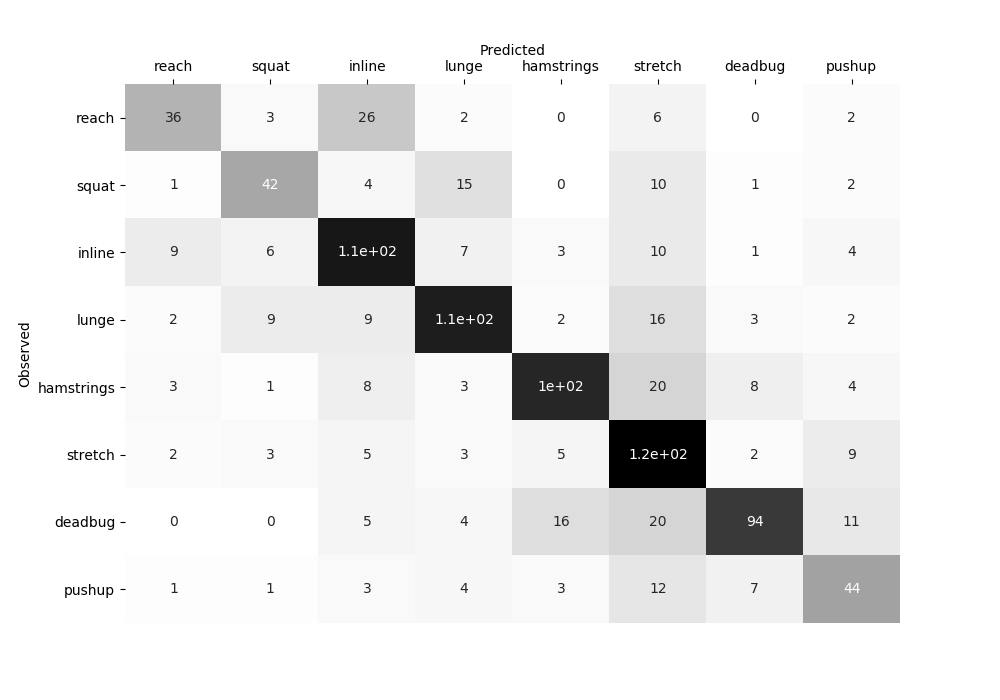
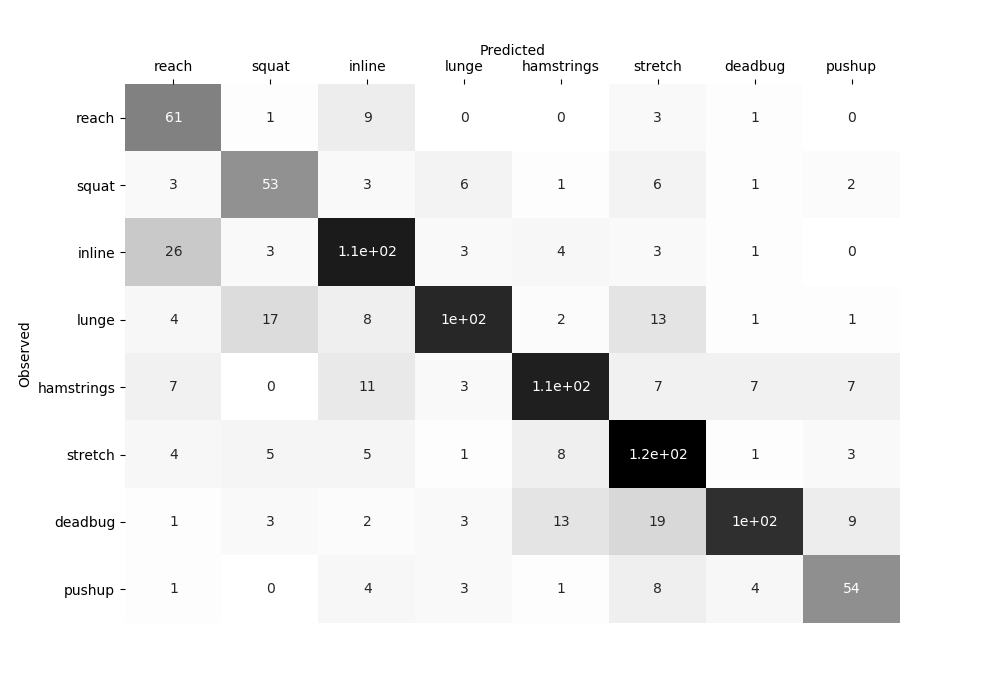
update alexnet imgs for key

diff --git a/alexnet.py b/alexnet.py
@@ -60,7 +60,7 @@ print('Device:', device)
 params = {'batch_size': 32,
           'shuffle': True,
           'num_workers': 4}
-num_epochs = 10
+num_epochs = 20
 learning_rate = 1e-5
 weight_decay = 1e-4
 
